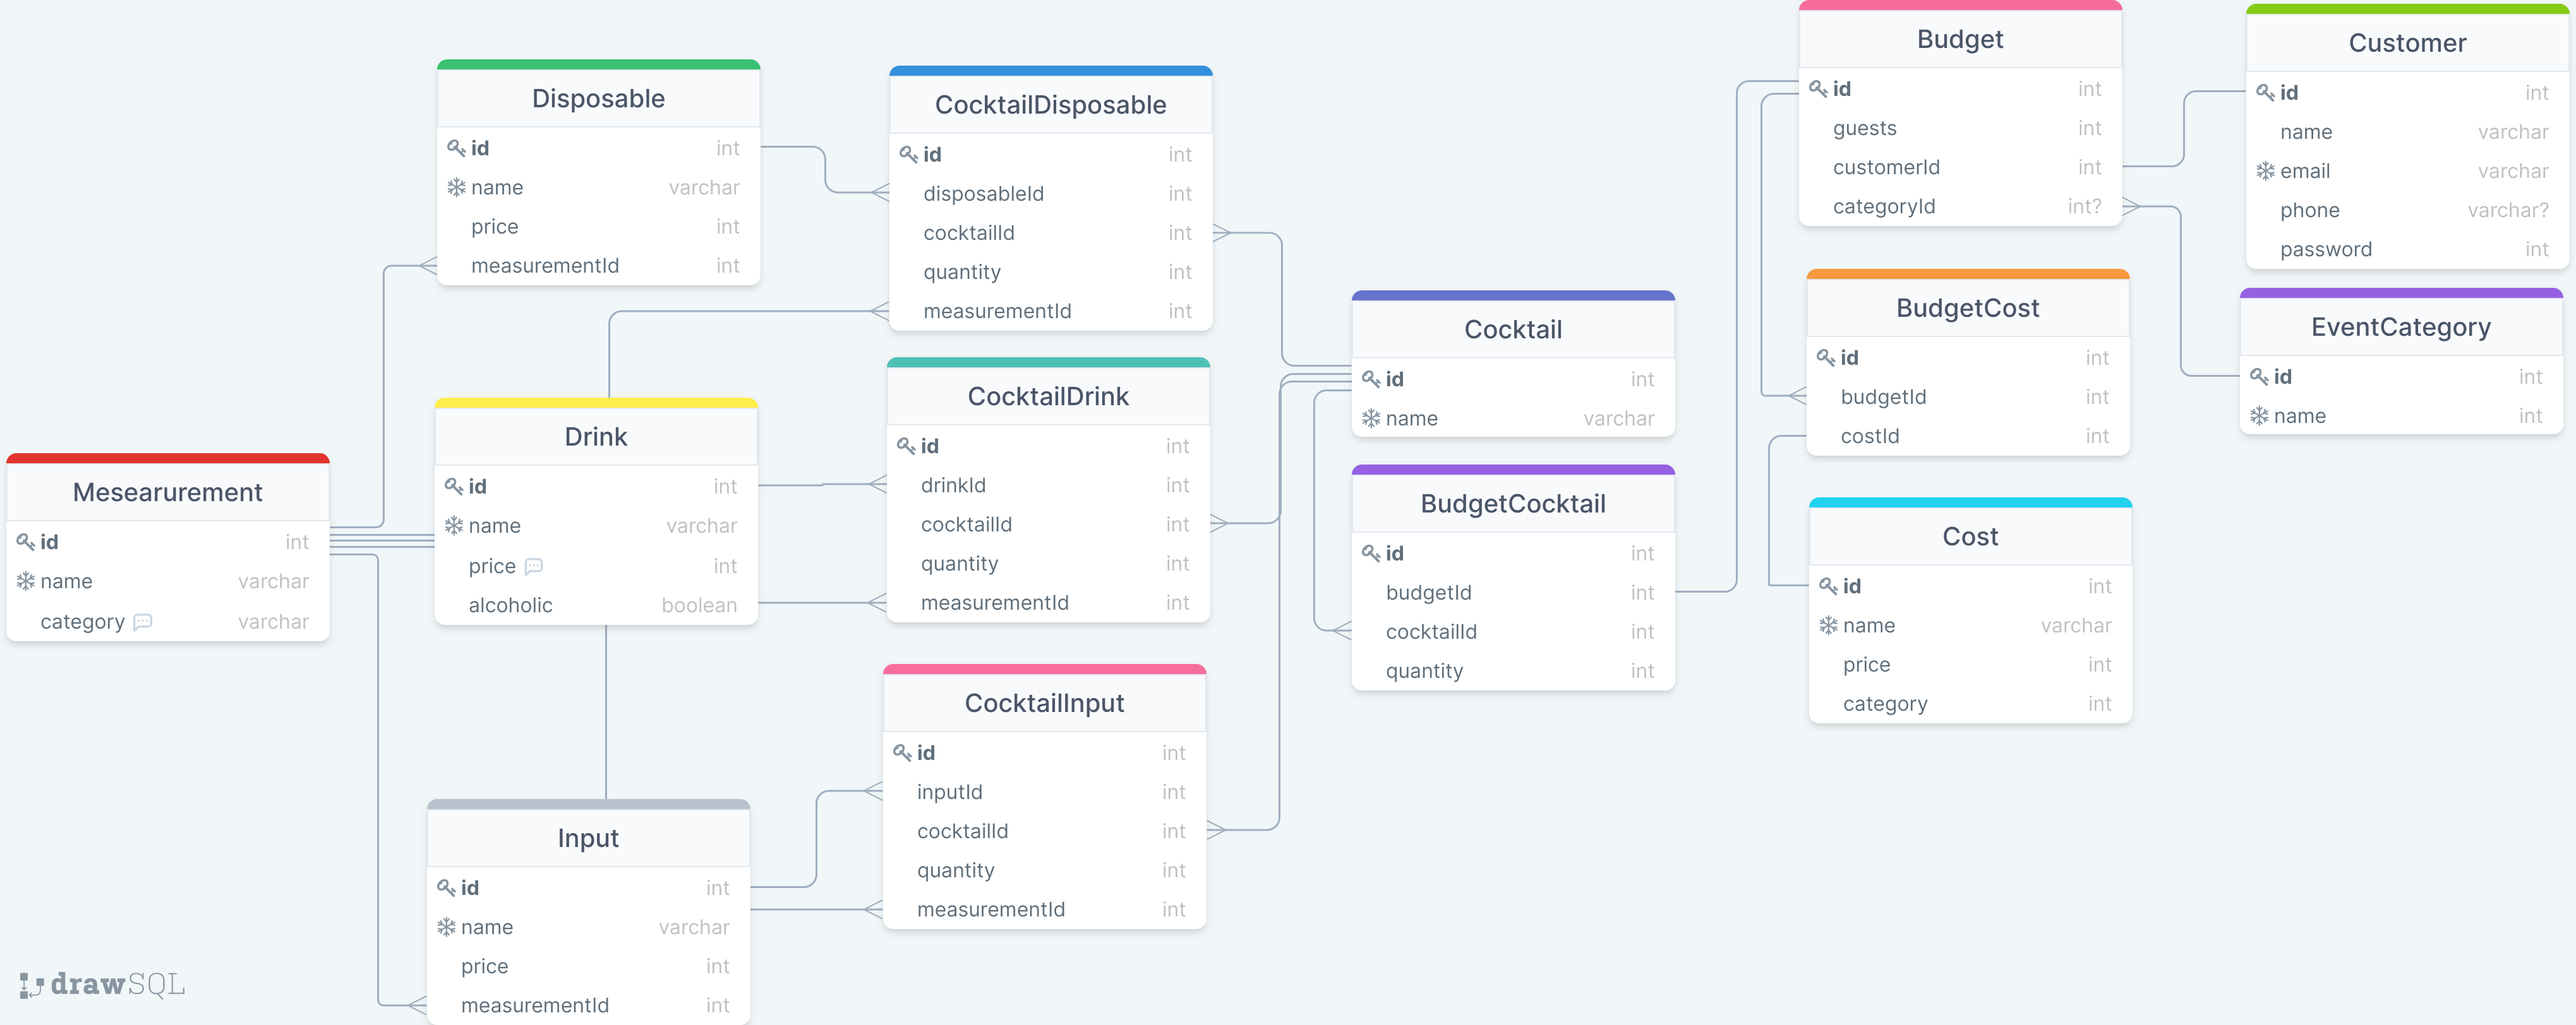
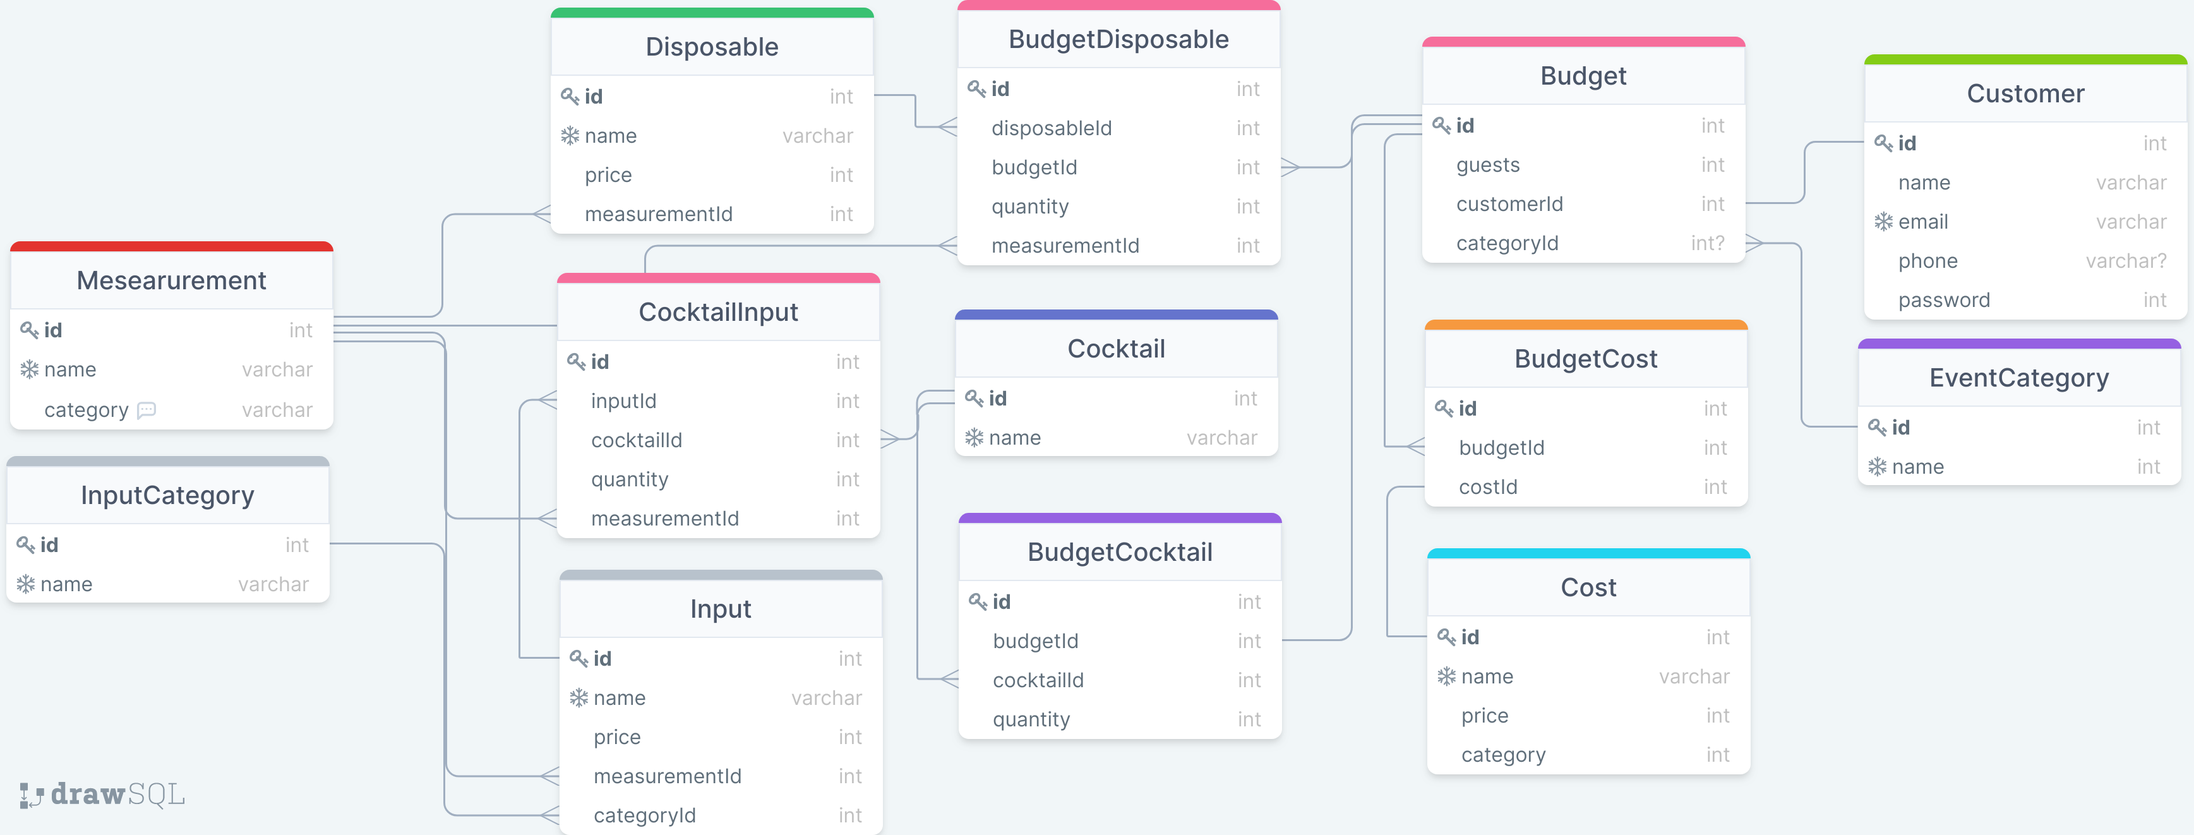
feat: simplify database

diff --git a/prisma/seeds/populateCocktails.ts b/prisma/seeds/populateCocktails.ts
@@ -1,109 +1,85 @@
-import {
-  Cocktail,
-  CocktailDisposable,
-  CocktailDrink,
-  CocktailInput,
-  Measurement,
-} from '@prisma/client';
+import { Cocktail, CocktailInput } from '@prisma/client';
 import { client } from '../../src/database.js';
+import { upsertInputs } from './populateInputs.js';
+
+export async function buildRecipes(
+  cocktails: Cocktail[],
+  inputs: any,
+  measurements: any
+) {
+  const recipesInputs: Omit<CocktailInput, 'id'>[] = [];
+
+  cocktails.forEach((cocktail) => {
+    const newItems: Omit<CocktailInput, 'id'>[] = [
+      {
+        cocktailId: cocktail.id,
+        inputId: inputs['Açucar'],
+        quantity: 30,
+        measurementId: measurements.grama,
+      },
+      {
+        cocktailId: cocktail.id,
+        inputId: inputs['Limão Taiti'],
+        quantity: 100,
+        measurementId: measurements.grama,
+      },
+      {
+        cocktailId: cocktail.id,
+        inputId: inputs.Gelo,
+        quantity: 300,
+        measurementId: measurements.grama,
+      },
+    ];
+    recipesInputs.push(...newItems);
+  });
+
+  recipesInputs.push(
+    {
+      cocktailId: cocktails.find((c) => c.name === 'Caipirinha tradicional').id,
+      inputId: inputs['Cachaça'],
+      quantity: 50,
+      measurementId: measurements.mililitro,
+    },
+    {
+      cocktailId: cocktails.find((c) => c.name === 'Caipiroska').id,
+      inputId: inputs.Vodka,
+      quantity: 50,
+      measurementId: measurements.mililitro,
+    }
+  );
+  await client.cocktailInput.createMany({ data: recipesInputs });
+}
 
 export async function upsertCocktailsInput(
-  measurements: Measurement[],
+  measurements: any,
   cocktails: Cocktail[]
 ) {
-  const unitId = measurements.find((m) => m.name === 'grama').id;
-
-  const inputs = await client.input.findMany();
-
-  const cocktailInputs: Omit<CocktailInput, 'id'>[] = [];
-
-  inputs.forEach((input) => {
-    cocktails.forEach((cocktail) => {
-      cocktailInputs.push({
-        cocktailId: cocktail.id,
-        inputId: input.id,
-        quantity: Math.floor(Math.random() * 100),
-        measurementId: unitId,
-      });
-    });
+  const inputs = await upsertInputs();
+  const inputHash: any = {};
+  inputs.forEach((i) => {
+    inputHash[i.name] = i.id;
   });
 
-  await client.cocktailInput.createMany({ data: cocktailInputs });
-}
-
-export async function upsertCocktailsDisposable(
-  measurements: Measurement[],
-  cocktails: Cocktail[]
-) {
-  const unitId = measurements.find((m) => m.name === 'unidade').id;
-
-  const disposables = await client.disposable.findMany();
-
-  const cocktailDisposables: Omit<CocktailDisposable, 'id'>[] = [];
-
-  disposables.forEach((disposable) => {
-    cocktails.forEach((cocktail) => {
-      cocktailDisposables.push({
-        cocktailId: cocktail.id,
-        disposableId: disposable.id,
-        quantity: Math.floor(Math.random() * 100),
-        measurementId: unitId,
-      });
-    });
-  });
-
-  await client.cocktailDisposable.createMany({ data: cocktailDisposables });
-}
-
-export async function upsertCocktailsDrink(
-  measurements: Measurement[],
-  cocktails: Cocktail[]
-) {
-  const mililiterId = measurements.find((m) => m.name === 'mililitro').id;
-
-  const drinks = await client.drink.findMany();
-
-  const cocktailDrink: Omit<CocktailDrink, 'id'>[] = [
-    {
-      drinkId: drinks[0].id,
-      cocktailId: cocktails[0].id,
-      quantity: 50,
-      measurementId: mililiterId,
-    },
-    {
-      drinkId: drinks[1].id,
-      cocktailId: cocktails[1].id,
-      quantity: 50,
-      measurementId: mililiterId,
-    },
-  ];
-
-  await client.cocktailDrink.createMany({ data: cocktailDrink });
+  await buildRecipes(cocktails, inputHash, measurements);
 }
 
 export async function upsertCocktails() {
-  const cocktails: Omit<Cocktail, 'id'>[] = [
-    {
-      name: 'Caipirinha tradicional',
-    },
-    {
-      name: 'Caipiroska de limão',
-    },
-  ];
+  const cocktails: string[] = ['Caipirinha tradicional', 'Caipiroska'];
 
   const result = await client.$transaction(
     cocktails.map((cocktail) =>
       client.cocktail.upsert({
-        where: { name: cocktail.name },
+        where: { name: cocktail },
         update: {},
-        create: cocktail,
+        create: { name: cocktail },
       })
     )
   );
 
   const measurements = await client.measurement.findMany();
-
-  await upsertCocktailsDisposable(measurements, result);
-  await upsertCocktailsDrink(measurements, result);
-  await upsertCocktailsInput(measurements, result);
+  const measurementsHash: any = {};
+  measurements.forEach((m) => {
+    measurementsHash[m.name] = m.id;
+  });
+  await upsertCocktailsInput(measurementsHash, result);
 }

diff --git a/prisma/seeds/populateInputs.ts b/prisma/seeds/populateInputs.ts
@@ -1,33 +1,76 @@
-import { Input } from '@prisma/client';
+import { Input, InputCategory } from '@prisma/client';
 import { client } from '../../src/database.js';
 
+async function upsertInputCategory() {
+  const categories: Omit<InputCategory, 'id'>[] = [
+    {
+      name: 'Bebidas',
+    },
+    {
+      name: 'Frutas',
+    },
+    { name: 'Insumos' },
+  ];
+
+  return client.$transaction(
+    categories.map((category) =>
+      client.inputCategory.upsert({
+        where: { name: category.name },
+        update: {},
+        create: category,
+      })
+    )
+  );
+}
+
 export async function upsertInputs() {
+  const categories = await upsertInputCategory();
+  const drinkCategory = categories.find((c) => c.name === 'Bebidas');
+  const fruitCategory = categories.find((c) => c.name === 'Frutas');
+  const ingredientCategory = categories.find((c) => c.name === 'Insumos');
+
   const measurements = await client.measurement.findMany();
+  const literId = measurements.find((m) => m.name === 'litro').id;
   const kilogramId = measurements.find((m) => m.name === 'kilograma').id;
   const inputs: Omit<Input, 'id'>[] = [
+    {
+      name: 'Cachaça',
+      price: 3200,
+      measurementId: literId,
+      categoryId: drinkCategory.id,
+    },
+    {
+      name: 'Vodka',
+      price: 2400,
+      measurementId: literId,
+      categoryId: drinkCategory.id,
+    },
     {
       name: 'Limão Taiti',
       price: 250,
       measurementId: kilogramId,
+      categoryId: fruitCategory.id,
     },
     {
       name: 'Açucar',
       price: 623,
       measurementId: kilogramId,
+      categoryId: ingredientCategory.id,
     },
     {
       name: 'Gelo',
       price: 100,
       measurementId: kilogramId,
+      categoryId: ingredientCategory.id,
     },
   ];
 
-  await client.$transaction(
-    inputs.map((drink) =>
+  return client.$transaction(
+    inputs.map((input) =>
       client.input.upsert({
-        where: { name: drink.name },
+        where: { name: input.name },
         update: {},
-        create: drink,
+        create: input,
       })
     )
   );

diff --git a/prisma/seeds/index.ts b/prisma/seeds/index.ts
@@ -2,14 +2,10 @@
 import { client } from '../../src/database.js';
 import { upsertCocktails } from './populateCocktails.js';
 import { upsertDisposables } from './populateDisposables.js';
-import { upsertDrinks } from './populateDrinks.js';
-import { upsertInputs } from './populateInputs.js';
 import { upsertMeasurement } from './populateMeasurement.js';
 
 export default async function main() {
   await upsertMeasurement();
-  await upsertDrinks();
-  await upsertInputs();
   await upsertDisposables();
   await upsertCocktails();
 }

diff --git a/prisma/seeds/populateMeasurement.ts b/prisma/seeds/populateMeasurement.ts
@@ -11,6 +11,7 @@ export async function upsertMeasurement() {
       name: 'grama',
       category: 'mass',
     },
+    { name: 'litro', category: 'volume' },
     {
       name: 'mililitro',
       category: 'volume',
